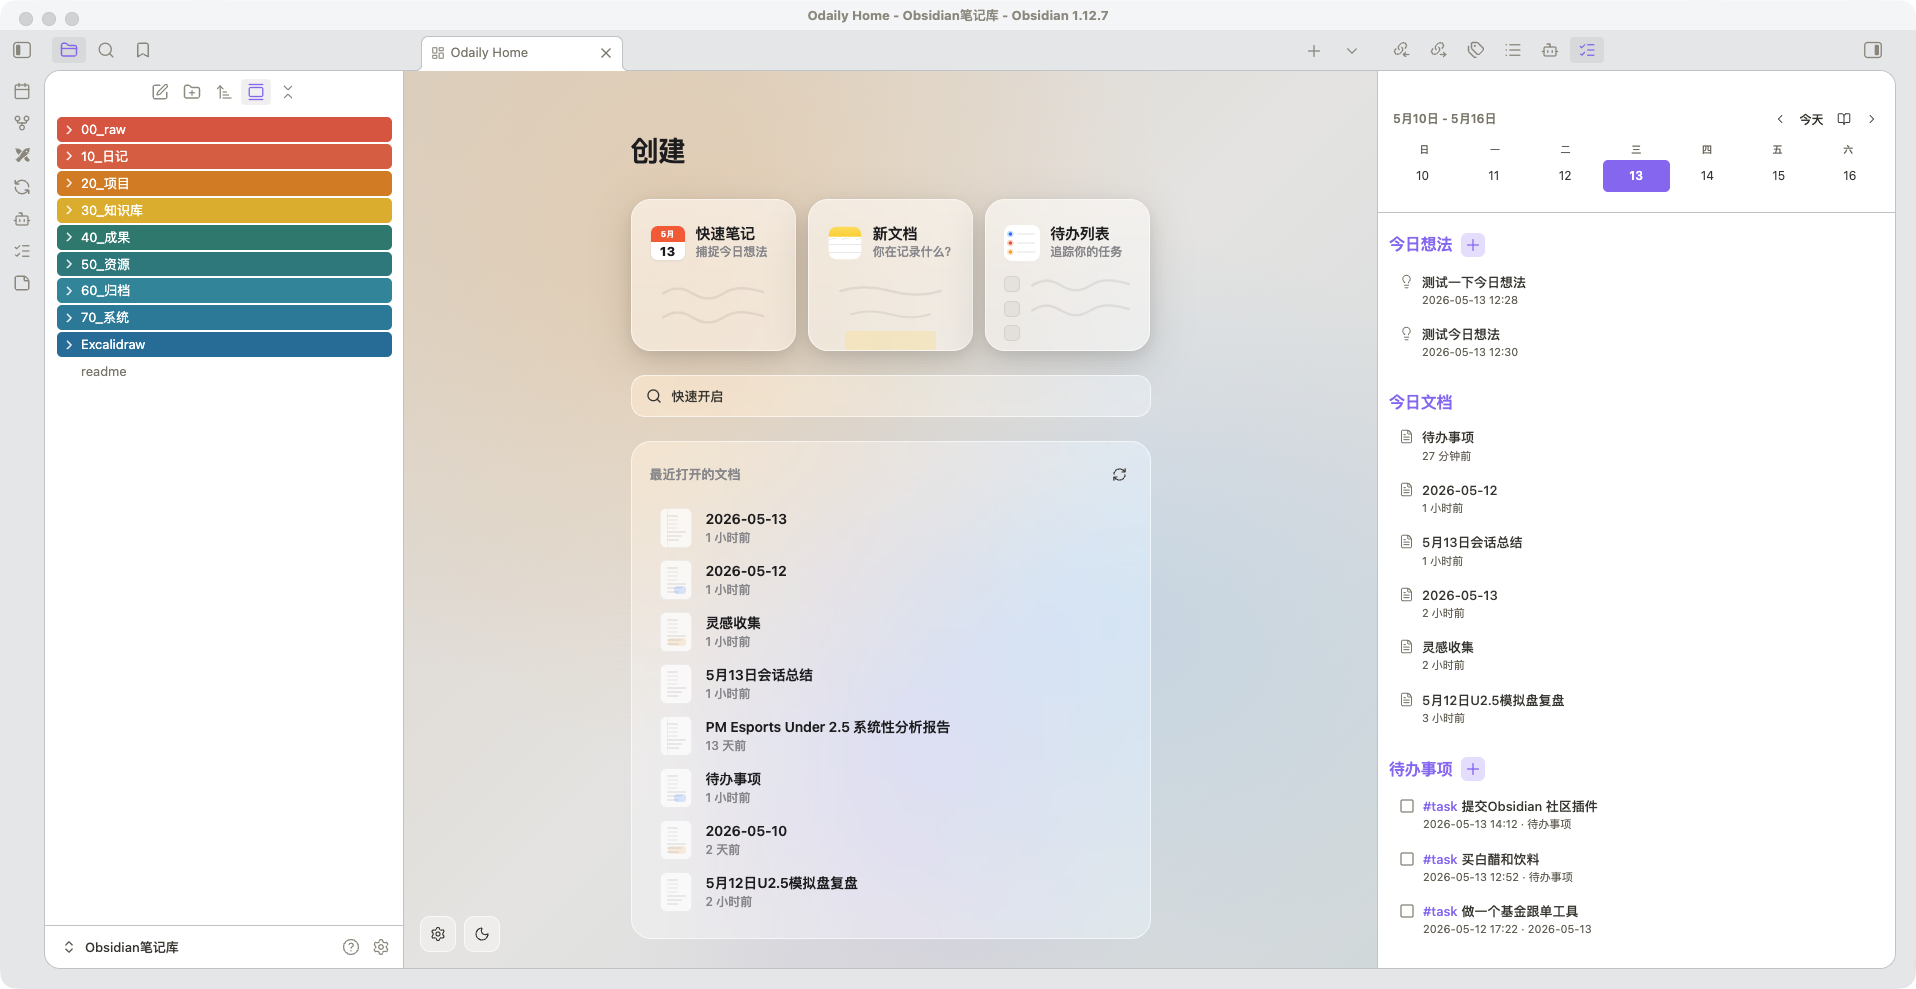
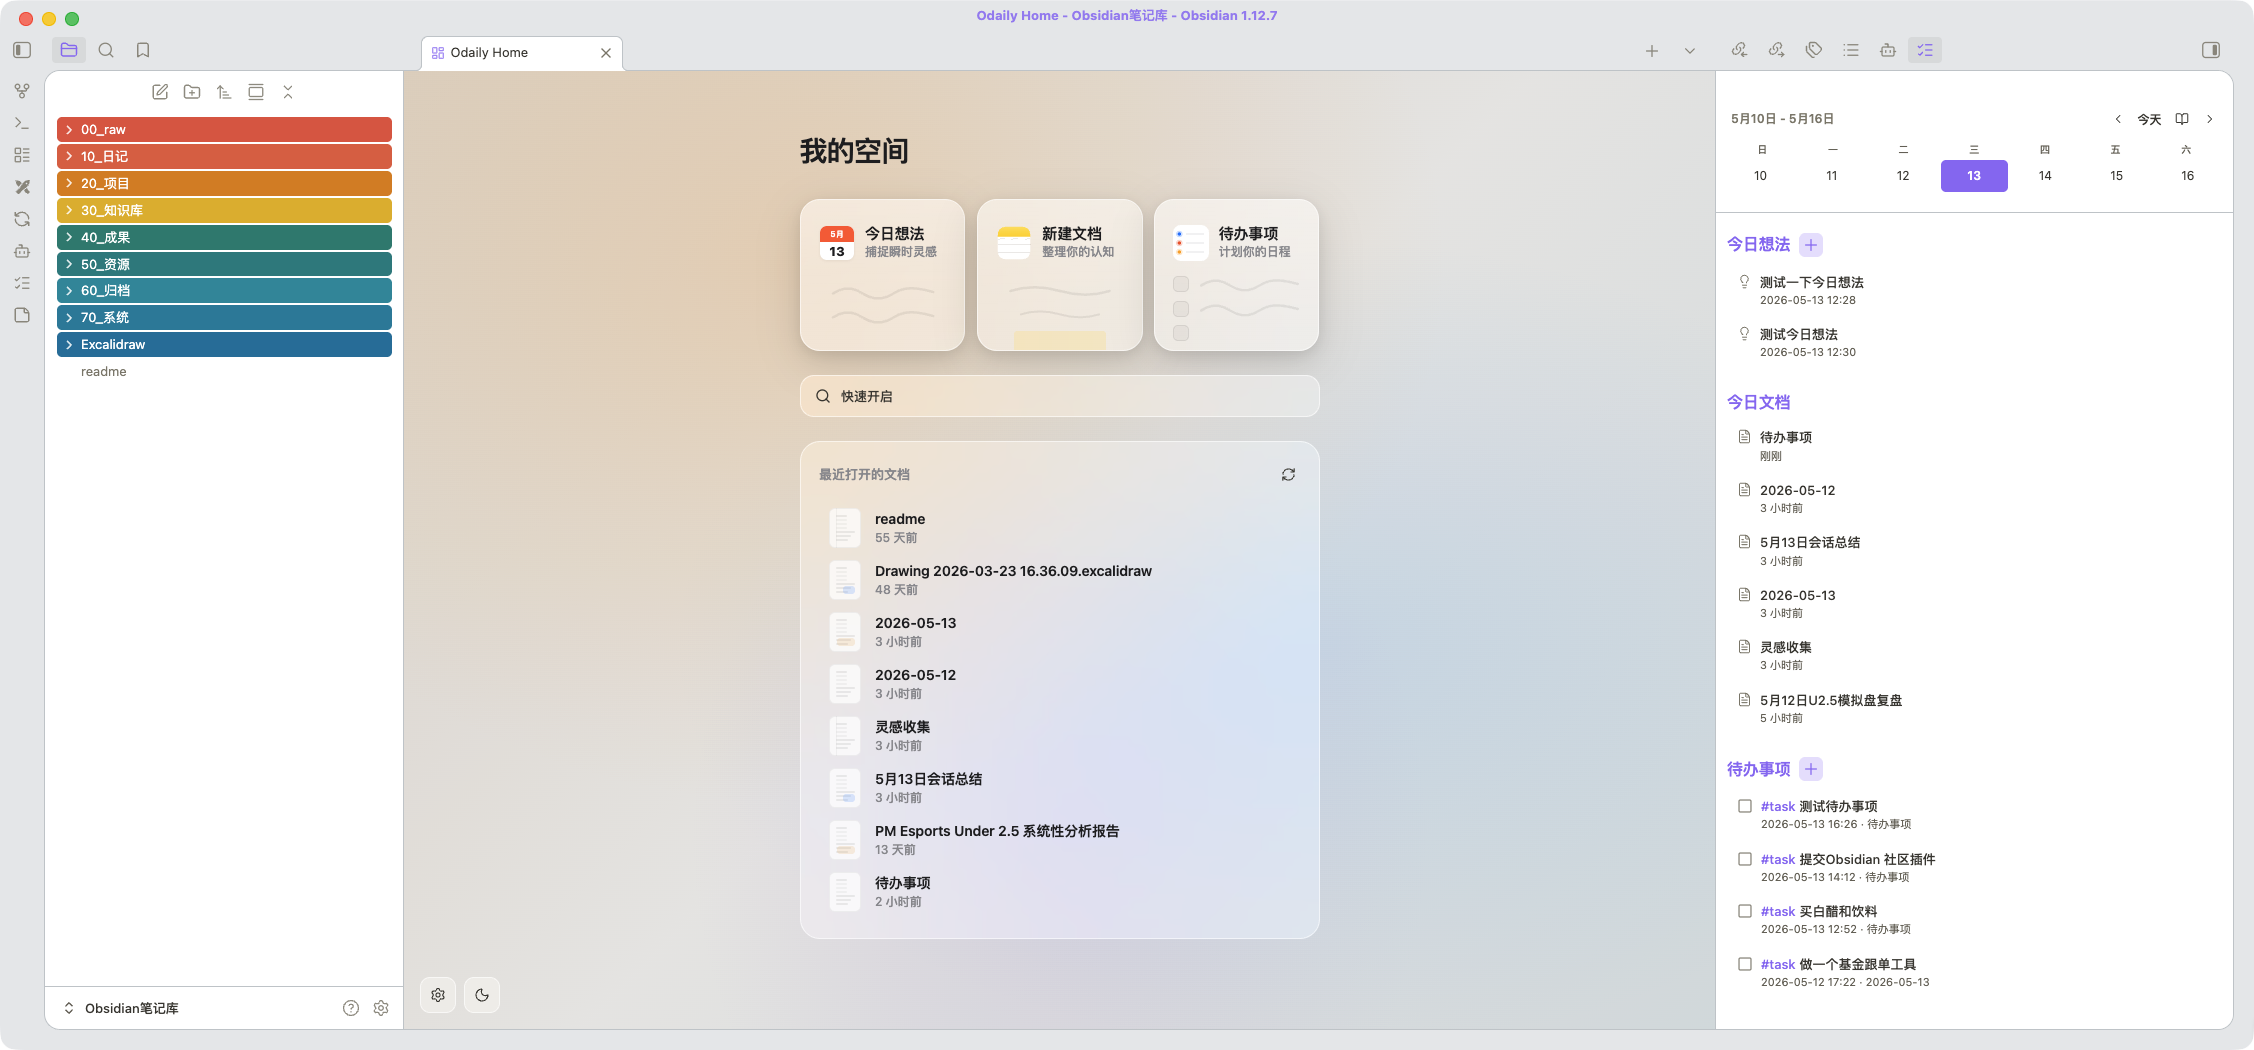
优化 README 描述，更新截图

diff --git a/main.ts b/main.ts
@@ -50,13 +50,13 @@ function initLocale(): void {
   S["cmd.openSidebar"] = z ? "打开 Odaily 侧边栏" : "Open Odaily sidebar";
   S["cmd.addMemo"] = z ? "Odaily: 新增想法" : "Odaily: add memo";
   S["cmd.addTodo"] = z ? "Odaily: 新增待办" : "Odaily: add todo";
-  S["home.create"] = z ? "创建" : "Create";
-  S["home.quickNote"] = z ? "快速笔记" : "Quick Note";
-  S["home.quickNoteSub"] = z ? "捕捉今日想法" : "Capture";
-  S["home.newDoc"] = z ? "新文档" : "New Doc";
-  S["home.newDocSub"] = z ? "你在记录什么？" : "Record";
-  S["home.todoList"] = z ? "待办列表" : "Todo List";
-  S["home.todoListSub"] = z ? "追踪你的任务" : "Track";
+  S["home.create"] = z ? "我的空间" : "My Space";
+  S["home.quickNote"] = z ? "今日想法" : "Daily Memo";
+  S["home.quickNoteSub"] = z ? "捕捉瞬时灵感" : "Capture";
+  S["home.newDoc"] = z ? "新建文档" : "New Doc";
+  S["home.newDocSub"] = z ? "整理你的认知" : "Organize";
+  S["home.todoList"] = z ? "待办事项" : "Todo List";
+  S["home.todoListSub"] = z ? "计划你的日程" : "Plan";
   S["home.quickOpen"] = z ? "快速开启" : "Quick Open";
   S["home.recentFiles"] = z ? "最近打开的文档" : "Recent Files";
   S["home.noRecent"] = z ? "还没有最近打开的文档" : "No recent files";

diff --git a/main.js b/main.js
@@ -19,7 +19,7 @@ if you want to view the source, please visit the github repository
   <circle cx="21" cy="90" r="9" fill="none" stroke="#ff9500"/>
   <circle cx="21" cy="90" r="6" fill="#ff9500"/>
   <path fill="#c7c7cc" fill-rule="evenodd" d="M44 29h60a.94477.94477 0 0 1 1 1h0a.94477.94477 0 0 1-1 1H44a.94477.94477 0 0 1-1-1h0A1.07539 1.07539 0 0 1 44 29ZM44 59h60a.94477.94477 0 0 1 1 1h0a.94477.94477 0 0 1-1 1H44a.94477.94477 0 0 1-1-1h0A1.07539 1.07539 0 0 1 44 59zM44 89h60a.94477.94477 0 0 1 1 1h0a.94477.94477 0 0 1-1 1H44a.94477.94477 0 0 1-1-1h0A1.07539 1.07539 0 0 1 44 89z"/>
-</svg>`;function E(){return(localStorage.getItem("language")||navigator.language||"en").startsWith("zh")}var r={};function it(){let i=E();r["cmd.openHome"]=i?"\u6253\u5F00 Odaily \u4E3B\u9875":"Open Odaily home",r["cmd.openSidebar"]=i?"\u6253\u5F00 Odaily \u4FA7\u8FB9\u680F":"Open Odaily sidebar",r["cmd.addMemo"]=i?"Odaily: \u65B0\u589E\u60F3\u6CD5":"Odaily: add memo",r["cmd.addTodo"]=i?"Odaily: \u65B0\u589E\u5F85\u529E":"Odaily: add todo",r["home.create"]=i?"\u521B\u5EFA":"Create",r["home.quickNote"]=i?"\u5FEB\u901F\u7B14\u8BB0":"Quick Note",r["home.quickNoteSub"]=i?"\u6355\u6349\u4ECA\u65E5\u60F3\u6CD5":"Capture",r["home.newDoc"]=i?"\u65B0\u6587\u6863":"New Doc",r["home.newDocSub"]=i?"\u4F60\u5728\u8BB0\u5F55\u4EC0\u4E48\uFF1F":"Record",r["home.todoList"]=i?"\u5F85\u529E\u5217\u8868":"Todo List",r["home.todoListSub"]=i?"\u8FFD\u8E2A\u4F60\u7684\u4EFB\u52A1":"Track",r["home.quickOpen"]=i?"\u5FEB\u901F\u5F00\u542F":"Quick Open",r["home.recentFiles"]=i?"\u6700\u8FD1\u6253\u5F00\u7684\u6587\u6863":"Recent Files",r["home.noRecent"]=i?"\u8FD8\u6CA1\u6709\u6700\u8FD1\u6253\u5F00\u7684\u6587\u6863":"No recent files",r["home.refresh"]=i?"\u5237\u65B0":"Refresh",r["home.settings"]=i?"\u8BBE\u7F6E":"Settings",r["home.switchLight"]=i?"\u5207\u6362\u6D45\u8272\u6A21\u5F0F":"Switch to light mode",r["home.switchDark"]=i?"\u5207\u6362\u6DF1\u8272\u6A21\u5F0F":"Switch to dark mode",r["sidebar.title"]=i?"Odaily \u6982\u89C8":"Odaily Overview",r["sidebar.today"]=i?"\u4ECA\u5929":"Today",r["sidebar.prevDay"]=i?"\u524D\u4E00\u5929":"Previous day",r["sidebar.nextDay"]=i?"\u540E\u4E00\u5929":"Next day",r["sidebar.openDiary"]=i?"\u6253\u5F00\u65E5\u8BB0":"Open daily note",r["sidebar.prevMonth"]=i?"\u4E0A\u4E2A\u6708":"Previous month",r["sidebar.nextMonth"]=i?"\u4E0B\u4E2A\u6708":"Next month",r["empty.noDiaryToday"]=i?"\u4ECA\u65E5\u6682\u65E0\u65E5\u8BB0":"No daily note today",r["empty.noDiary"]=i?"\u6682\u65E0\u65E5\u8BB0":"No daily note",r["empty.noMemos"]=i?"\u8FD8\u6CA1\u6709\u60F3\u6CD5":"No memos yet",r["empty.noDocs"]=i?"\u6682\u65E0":"None",r["empty.noTodos"]=i?"\u6CA1\u6709\u5F85\u529E\u4E8B\u9879":"No pending tasks",r["empty.noDone"]=i?"\u6CA1\u6709\u5DF2\u5B8C\u6210\u7684\u4E8B\u9879":"No completed tasks",r["action.addMemo"]=i?"\u521B\u5EFA\u65B0\u60F3\u6CD5":"Add memo",r["action.addTodo"]=i?"\u521B\u5EFA\u65B0\u4E8B\u9879":"Add task",r["modal.addTodoTitle"]=i?"\u65B0\u589E\u5F85\u529E":"Add Todo",r["modal.todoPlaceholder"]=i?"\u8F93\u5165\u5F85\u529E\u4E8B\u9879...":"Enter a task...",r["modal.memoPlaceholder"]=i?"\u8BB0\u5F55\u6B64\u523B\u7684\u60F3\u6CD5...":"Capture this thought...",r["modal.cancel"]=i?"\u53D6\u6D88":"Cancel",r["modal.save"]=i?"\u4FDD\u5B58":"Save",r["notice.noSwitcher"]=i?"\u5FEB\u901F\u5207\u6362\u5668\u4E0D\u53EF\u7528":"Quick switcher is not available.",r["settings.title"]=i?"Odaily Home \u8BBE\u7F6E":"Odaily Home Settings",r["settings.lightBg"]=i?"\u6D45\u8272\u6A21\u5F0F\u80CC\u666F":"Light Mode Background",r["settings.lightBgDesc"]=i?"\u652F\u6301\uFF1AVault \u56FE\u7247\u8DEF\u5F84\uFF08\u5982 Attachments/bg.jpg\uFF09\u3001\u5916\u90E8\u94FE\u63A5\u3001CSS \u989C\u8272\u3001\u6E10\u53D8\u3002\u7559\u7A7A\u4F7F\u7528\u9ED8\u8BA4\u3002":"Supports: vault image path (e.g. Attachments/bg.jpg), external URLs, CSS colors, gradients. Leave empty for default.",r["settings.lightPh"]=i?"\u5982: Attachments/light.jpg \u6216 #f0f0f0":"e.g.: Attachments/light.jpg or #f0f0f0",r["settings.darkBg"]=i?"\u6DF1\u8272\u6A21\u5F0F\u80CC\u666F":"Dark Mode Background",r["settings.darkBgDesc"]=i?"\u652F\u6301\uFF1AVault \u56FE\u7247\u8DEF\u5F84\uFF08\u5982 Attachments/bg.jpg\uFF09\u3001\u5916\u90E8\u94FE\u63A5\u3001CSS \u989C\u8272\u3001\u6E10\u53D8\u3002\u7559\u7A7A\u4F7F\u7528\u9ED8\u8BA4\u3002":"Supports: vault image path (e.g. Attachments/bg.jpg), external URLs, CSS colors, gradients. Leave empty for default.",r["settings.darkPh"]=i?"\u5982: Attachments/dark.jpg \u6216 #1a1a2e":"e.g.: Attachments/dark.jpg or #1a1a2e",r["settings.taskTags"]=i?"\u672A\u5B8C\u6210\u4EFB\u52A1\u7B5B\u9009\u6807\u7B7E":"Task Filter Tags",r["settings.taskTagsDesc"]=i?"\u53EA\u663E\u793A\u5305\u542B\u6307\u5B9A\u6807\u7B7E\u7684\u4EFB\u52A1\uFF0C\u591A\u4E2A\u6807\u7B7E\u7528\u9017\u53F7\u5206\u9694\u3002\u5982: todo, \u5F85\u529E\u3002\u7559\u7A7A\u663E\u793A\u6240\u6709\u672A\u5B8C\u6210\u4EFB\u52A1\u3002":"Only show tasks with specified tags, separated by commas. e.g.: todo, task. Leave empty to show all.",r["settings.taskTagsPh"]=i?"\u5982: todo, \u5F85\u529E":"e.g.: todo, task",r["settings.todoFile"]=i?"\u5F85\u529E\u6DFB\u52A0\u76EE\u6807\u6587\u4EF6":"Todo Target File",r["settings.todoFileDesc"]=i?"\u65B0\u5F85\u529E\u5199\u5165\u7684\u6587\u4EF6\u8DEF\u5F84\u3002\u7559\u7A7A\u5219\u5199\u5165\u5F53\u5929\u65E5\u8BB0\u3002\u5982: 00_inbox/\u5F85\u529E\u6E05\u5355\u3002":"File path for new todos. Leave empty to use daily notes. e.g.: 00_inbox/todos.",r["settings.todoFilePh"]=i?"\u7559\u7A7A = \u5F53\u5929\u65E5\u8BB0":"Leave empty = daily note",r["settings.todoPos"]=i?"\u5F85\u529E\u8FFD\u52A0\u4F4D\u7F6E":"Todo Append Position",r["settings.todoPosDesc"]=i?"\u65B0\u5F85\u529E\u8FFD\u52A0\u5230\u6587\u4EF6\u6700\u524D\u9762\u8FD8\u662F\u6700\u540E\u9762\u3002":"Append new todos to the top or bottom of the file.",r["settings.posBottom"]=i?"\u6587\u4EF6\u672B\u5C3E":"Bottom of file",r["settings.posTop"]=i?"\u6587\u4EF6\u5F00\u5934":"Top of file",r["settings.helpTitle"]=i?"\u4F7F\u7528\u8BF4\u660E":"Instructions",r["settings.help1a"]=i?"1. \u5C06\u56FE\u7247\u653E\u5165 Vault \u4E2D\uFF08\u5982 ":"1. Place an image in your vault (e.g. ",r["settings.help1b"]=i?"\uFF09\uFF0C\u5728\u4E0A\u65B9\u8F93\u5165\u8BE5\u8DEF\u5F84\u5373\u53EF":") and enter the path above",r["settings.help2a"]=i?"2. \u4E5F\u53EF\u8F93\u5165\u7F51\u7EDC\u56FE\u7247\u94FE\u63A5\uFF0C\u5982 ":"2. Or enter an image URL, e.g. ",r["settings.help3a"]=i?"3. \u652F\u6301 CSS \u539F\u751F\u5199\u6CD5\uFF1A\u989C\u8272 ":"3. Supports native CSS: color ",r["settings.help3b"]=i?"\u3001\u6E10\u53D8 ":", gradient ",r["settings.help4"]=i?"4. \u6D45\u8272\u548C\u6DF1\u8272\u6A21\u5F0F\u53EF\u5206\u522B\u8BBE\u7F6E\u4E0D\u540C\u7684\u80CC\u666F":"4. Light and dark modes can have different backgrounds",r["rel.justNow"]=i?"\u521A\u521A":"just now",r["rel.minutesAgo"]=i?" \u5206\u949F\u524D":" min ago",r["rel.hoursAgo"]=i?" \u5C0F\u65F6\u524D":" hours ago",r["rel.daysAgo"]=i?" \u5929\u524D":" days ago"}function o(i){var g;return(g=r[i])!=null?g:i}function N(i){return E()?`${i.getMonth()+1}\u6708${i.getDate()}\u65E5`:i.toLocaleDateString("en-US",{month:"short",day:"numeric"})}function st(i){return E()?`${i.getMonth()+1}\u6708`:i.toLocaleDateString("en-US",{month:"short"})}function nt(i){return E()?`${i.getFullYear()}\u5E74${i.getMonth()+1}\u6708`:i.toLocaleDateString("en-US",{year:"numeric",month:"long"})}function ot(){return E()?["\u65E5","\u4E00","\u4E8C","\u4E09","\u56DB","\u4E94","\u516D"]:["Sun","Mon","Tue","Wed","Thu","Fri","Sat"]}function F(i,g,e){let t=E(),a=N(g),s={memo:t?{today:"\u4ECA\u65E5\u60F3\u6CD5",date:`${a}\u60F3\u6CD5`}:{today:"Today's Memos",date:`${a} Memos`},doc:t?{today:"\u4ECA\u65E5\u6587\u6863",date:`${a}\u6587\u6863`}:{today:"Today's Docs",date:`${a} Docs`},todo:t?{today:"\u5F85\u529E\u4E8B\u9879",date:`${a}\u4E8B\u9879`}:{today:"Todos",date:`${a} Todos`},done:t?{today:"\u4ECA\u65E5\u5B8C\u6210",date:`${a}\u5B8C\u6210`}:{today:"Done Today",date:`Completed ${a}`}};return e?s[i].today:s[i].date}var rt=()=>E()?"\u4ECA\u65E5\u5B8C\u6210":"Done Today",V={lightBackground:"",darkBackground:"",taskTags:"",todoFile:"",todoPosition:"bottom"},O=class extends p.Plugin{constructor(){super(...arguments);k(this,"settings",V);k(this,"replacingLeaves",new WeakSet)}async onload(){await this.loadSettings(),it(),this.registerView(L,e=>new R(e,this)),this.registerView(P,e=>new C(e,this)),this.addCommand({id:"open-odaily-home",name:o("cmd.openHome"),callback:()=>this.openHomeInNewTab()}),this.addCommand({id:"open-odaily-sidebar",name:o("cmd.openSidebar"),callback:()=>this.openSidebar()}),this.addCommand({id:"odaily-add-memo",name:o("cmd.addMemo"),callback:()=>{this.addMemo()}}),this.addCommand({id:"odaily-add-todo",name:o("cmd.addTodo"),callback:()=>{new $(this.app,e=>{e.trim()&&this.addTodo(e)}).open()}}),this.addRibbonIcon("layout-dashboard","Open Odaily home",()=>{this.openHomeInNewTab()}),this.addRibbonIcon("list-checks","Open Odaily sidebar",()=>{this.openSidebar()}),this.registerEvent(this.app.workspace.on("active-leaf-change",e=>{this.replaceEmptyLeaf(e)})),this.app.workspace.onLayoutReady(()=>{this.replaceEmptyLeaf(this.app.workspace.activeLeaf)}),this.addSettingTab(new I(this.app,this))}async loadSettings(){this.settings=Object.assign({},V,await this.loadData())}async saveSettings(){await this.saveData(this.settings)}async openHomeInNewTab(){let e=this.app.workspace.getLeavesOfType(L)[0];if(e){this.app.workspace.revealLeaf(e);return}await this.app.workspace.getLeaf("tab").setViewState({type:L,active:!0})}async openSidebar(){let e=this.app.workspace.getLeavesOfType(P)[0];if(e){this.app.workspace.revealLeaf(e);return}let t=this.app.workspace.getRightLeaf(!1);t&&await t.setViewState({type:P,active:!0})}openFileSmart(e){let t=this.app.workspace.getLeavesOfType("markdown").find(a=>{var s;return((s=a.view.file)==null?void 0:s.path)===e.path});t?this.app.workspace.revealLeaf(t):this.app.workspace.getLeaf("tab").openFile(e)}async openDailyNote(e){let{fileName:t,folder:a}=this.getDailyNotePath(e),s=this.app.vault.getAbstractFileByPath(t);if(s instanceof p.TFile){this.openFileSmart(s);return}a&&await this.app.vault.createFolder(a).catch(()=>{});let n=await this.getTemplateContent(),h=await this.app.vault.create(t,n);this.openFileSmart(h),await this.applyTemplater(h)}async createNote(){let{fileName:e,folder:t}=this.getDailyNotePath(),a=this.app.vault.getAbstractFileByPath(e);if(a instanceof p.TFile){this.openFileSmart(a);return}t&&await this.app.vault.createFolder(t).catch(()=>{});let s=await this.getTemplateContent(),n=await this.app.vault.create(e,s);this.openFileSmart(n),await this.applyTemplater(n)}async getTemplateContent(){var s,n,h;let e=(s=this.app.internalPlugins)==null?void 0:s.getPluginById("daily-notes"),t=e!=null&&e.enabled?(h=(n=e.instance)==null?void 0:n.options)==null?void 0:h.template:void 0;if(t){let l=t.replace(/\.md$/,"")+".md",y=this.app.vault.getAbstractFileByPath(l);if(y instanceof p.TFile)return await this.app.vault.read(y)}return`# ${ht(new Date)}
+</svg>`;function E(){return(localStorage.getItem("language")||navigator.language||"en").startsWith("zh")}var r={};function it(){let i=E();r["cmd.openHome"]=i?"\u6253\u5F00 Odaily \u4E3B\u9875":"Open Odaily home",r["cmd.openSidebar"]=i?"\u6253\u5F00 Odaily \u4FA7\u8FB9\u680F":"Open Odaily sidebar",r["cmd.addMemo"]=i?"Odaily: \u65B0\u589E\u60F3\u6CD5":"Odaily: add memo",r["cmd.addTodo"]=i?"Odaily: \u65B0\u589E\u5F85\u529E":"Odaily: add todo",r["home.create"]=i?"\u6211\u7684\u7A7A\u95F4":"My Space",r["home.quickNote"]=i?"\u4ECA\u65E5\u60F3\u6CD5":"Daily Memo",r["home.quickNoteSub"]=i?"\u6355\u6349\u77AC\u65F6\u7075\u611F":"Capture",r["home.newDoc"]=i?"\u65B0\u5EFA\u6587\u6863":"New Doc",r["home.newDocSub"]=i?"\u6574\u7406\u4F60\u7684\u8BA4\u77E5":"Organize",r["home.todoList"]=i?"\u5F85\u529E\u4E8B\u9879":"Todo List",r["home.todoListSub"]=i?"\u8BA1\u5212\u4F60\u7684\u65E5\u7A0B":"Plan",r["home.quickOpen"]=i?"\u5FEB\u901F\u5F00\u542F":"Quick Open",r["home.recentFiles"]=i?"\u6700\u8FD1\u6253\u5F00\u7684\u6587\u6863":"Recent Files",r["home.noRecent"]=i?"\u8FD8\u6CA1\u6709\u6700\u8FD1\u6253\u5F00\u7684\u6587\u6863":"No recent files",r["home.refresh"]=i?"\u5237\u65B0":"Refresh",r["home.settings"]=i?"\u8BBE\u7F6E":"Settings",r["home.switchLight"]=i?"\u5207\u6362\u6D45\u8272\u6A21\u5F0F":"Switch to light mode",r["home.switchDark"]=i?"\u5207\u6362\u6DF1\u8272\u6A21\u5F0F":"Switch to dark mode",r["sidebar.title"]=i?"Odaily \u6982\u89C8":"Odaily Overview",r["sidebar.today"]=i?"\u4ECA\u5929":"Today",r["sidebar.prevDay"]=i?"\u524D\u4E00\u5929":"Previous day",r["sidebar.nextDay"]=i?"\u540E\u4E00\u5929":"Next day",r["sidebar.openDiary"]=i?"\u6253\u5F00\u65E5\u8BB0":"Open daily note",r["sidebar.prevMonth"]=i?"\u4E0A\u4E2A\u6708":"Previous month",r["sidebar.nextMonth"]=i?"\u4E0B\u4E2A\u6708":"Next month",r["empty.noDiaryToday"]=i?"\u4ECA\u65E5\u6682\u65E0\u65E5\u8BB0":"No daily note today",r["empty.noDiary"]=i?"\u6682\u65E0\u65E5\u8BB0":"No daily note",r["empty.noMemos"]=i?"\u8FD8\u6CA1\u6709\u60F3\u6CD5":"No memos yet",r["empty.noDocs"]=i?"\u6682\u65E0":"None",r["empty.noTodos"]=i?"\u6CA1\u6709\u5F85\u529E\u4E8B\u9879":"No pending tasks",r["empty.noDone"]=i?"\u6CA1\u6709\u5DF2\u5B8C\u6210\u7684\u4E8B\u9879":"No completed tasks",r["action.addMemo"]=i?"\u521B\u5EFA\u65B0\u60F3\u6CD5":"Add memo",r["action.addTodo"]=i?"\u521B\u5EFA\u65B0\u4E8B\u9879":"Add task",r["modal.addTodoTitle"]=i?"\u65B0\u589E\u5F85\u529E":"Add Todo",r["modal.todoPlaceholder"]=i?"\u8F93\u5165\u5F85\u529E\u4E8B\u9879...":"Enter a task...",r["modal.memoPlaceholder"]=i?"\u8BB0\u5F55\u6B64\u523B\u7684\u60F3\u6CD5...":"Capture this thought...",r["modal.cancel"]=i?"\u53D6\u6D88":"Cancel",r["modal.save"]=i?"\u4FDD\u5B58":"Save",r["notice.noSwitcher"]=i?"\u5FEB\u901F\u5207\u6362\u5668\u4E0D\u53EF\u7528":"Quick switcher is not available.",r["settings.title"]=i?"Odaily Home \u8BBE\u7F6E":"Odaily Home Settings",r["settings.lightBg"]=i?"\u6D45\u8272\u6A21\u5F0F\u80CC\u666F":"Light Mode Background",r["settings.lightBgDesc"]=i?"\u652F\u6301\uFF1AVault \u56FE\u7247\u8DEF\u5F84\uFF08\u5982 Attachments/bg.jpg\uFF09\u3001\u5916\u90E8\u94FE\u63A5\u3001CSS \u989C\u8272\u3001\u6E10\u53D8\u3002\u7559\u7A7A\u4F7F\u7528\u9ED8\u8BA4\u3002":"Supports: vault image path (e.g. Attachments/bg.jpg), external URLs, CSS colors, gradients. Leave empty for default.",r["settings.lightPh"]=i?"\u5982: Attachments/light.jpg \u6216 #f0f0f0":"e.g.: Attachments/light.jpg or #f0f0f0",r["settings.darkBg"]=i?"\u6DF1\u8272\u6A21\u5F0F\u80CC\u666F":"Dark Mode Background",r["settings.darkBgDesc"]=i?"\u652F\u6301\uFF1AVault \u56FE\u7247\u8DEF\u5F84\uFF08\u5982 Attachments/bg.jpg\uFF09\u3001\u5916\u90E8\u94FE\u63A5\u3001CSS \u989C\u8272\u3001\u6E10\u53D8\u3002\u7559\u7A7A\u4F7F\u7528\u9ED8\u8BA4\u3002":"Supports: vault image path (e.g. Attachments/bg.jpg), external URLs, CSS colors, gradients. Leave empty for default.",r["settings.darkPh"]=i?"\u5982: Attachments/dark.jpg \u6216 #1a1a2e":"e.g.: Attachments/dark.jpg or #1a1a2e",r["settings.taskTags"]=i?"\u672A\u5B8C\u6210\u4EFB\u52A1\u7B5B\u9009\u6807\u7B7E":"Task Filter Tags",r["settings.taskTagsDesc"]=i?"\u53EA\u663E\u793A\u5305\u542B\u6307\u5B9A\u6807\u7B7E\u7684\u4EFB\u52A1\uFF0C\u591A\u4E2A\u6807\u7B7E\u7528\u9017\u53F7\u5206\u9694\u3002\u5982: todo, \u5F85\u529E\u3002\u7559\u7A7A\u663E\u793A\u6240\u6709\u672A\u5B8C\u6210\u4EFB\u52A1\u3002":"Only show tasks with specified tags, separated by commas. e.g.: todo, task. Leave empty to show all.",r["settings.taskTagsPh"]=i?"\u5982: todo, \u5F85\u529E":"e.g.: todo, task",r["settings.todoFile"]=i?"\u5F85\u529E\u6DFB\u52A0\u76EE\u6807\u6587\u4EF6":"Todo Target File",r["settings.todoFileDesc"]=i?"\u65B0\u5F85\u529E\u5199\u5165\u7684\u6587\u4EF6\u8DEF\u5F84\u3002\u7559\u7A7A\u5219\u5199\u5165\u5F53\u5929\u65E5\u8BB0\u3002\u5982: 00_inbox/\u5F85\u529E\u6E05\u5355\u3002":"File path for new todos. Leave empty to use daily notes. e.g.: 00_inbox/todos.",r["settings.todoFilePh"]=i?"\u7559\u7A7A = \u5F53\u5929\u65E5\u8BB0":"Leave empty = daily note",r["settings.todoPos"]=i?"\u5F85\u529E\u8FFD\u52A0\u4F4D\u7F6E":"Todo Append Position",r["settings.todoPosDesc"]=i?"\u65B0\u5F85\u529E\u8FFD\u52A0\u5230\u6587\u4EF6\u6700\u524D\u9762\u8FD8\u662F\u6700\u540E\u9762\u3002":"Append new todos to the top or bottom of the file.",r["settings.posBottom"]=i?"\u6587\u4EF6\u672B\u5C3E":"Bottom of file",r["settings.posTop"]=i?"\u6587\u4EF6\u5F00\u5934":"Top of file",r["settings.helpTitle"]=i?"\u4F7F\u7528\u8BF4\u660E":"Instructions",r["settings.help1a"]=i?"1. \u5C06\u56FE\u7247\u653E\u5165 Vault \u4E2D\uFF08\u5982 ":"1. Place an image in your vault (e.g. ",r["settings.help1b"]=i?"\uFF09\uFF0C\u5728\u4E0A\u65B9\u8F93\u5165\u8BE5\u8DEF\u5F84\u5373\u53EF":") and enter the path above",r["settings.help2a"]=i?"2. \u4E5F\u53EF\u8F93\u5165\u7F51\u7EDC\u56FE\u7247\u94FE\u63A5\uFF0C\u5982 ":"2. Or enter an image URL, e.g. ",r["settings.help3a"]=i?"3. \u652F\u6301 CSS \u539F\u751F\u5199\u6CD5\uFF1A\u989C\u8272 ":"3. Supports native CSS: color ",r["settings.help3b"]=i?"\u3001\u6E10\u53D8 ":", gradient ",r["settings.help4"]=i?"4. \u6D45\u8272\u548C\u6DF1\u8272\u6A21\u5F0F\u53EF\u5206\u522B\u8BBE\u7F6E\u4E0D\u540C\u7684\u80CC\u666F":"4. Light and dark modes can have different backgrounds",r["rel.justNow"]=i?"\u521A\u521A":"just now",r["rel.minutesAgo"]=i?" \u5206\u949F\u524D":" min ago",r["rel.hoursAgo"]=i?" \u5C0F\u65F6\u524D":" hours ago",r["rel.daysAgo"]=i?" \u5929\u524D":" days ago"}function o(i){var g;return(g=r[i])!=null?g:i}function N(i){return E()?`${i.getMonth()+1}\u6708${i.getDate()}\u65E5`:i.toLocaleDateString("en-US",{month:"short",day:"numeric"})}function st(i){return E()?`${i.getMonth()+1}\u6708`:i.toLocaleDateString("en-US",{month:"short"})}function nt(i){return E()?`${i.getFullYear()}\u5E74${i.getMonth()+1}\u6708`:i.toLocaleDateString("en-US",{year:"numeric",month:"long"})}function ot(){return E()?["\u65E5","\u4E00","\u4E8C","\u4E09","\u56DB","\u4E94","\u516D"]:["Sun","Mon","Tue","Wed","Thu","Fri","Sat"]}function F(i,g,e){let t=E(),a=N(g),s={memo:t?{today:"\u4ECA\u65E5\u60F3\u6CD5",date:`${a}\u60F3\u6CD5`}:{today:"Today's Memos",date:`${a} Memos`},doc:t?{today:"\u4ECA\u65E5\u6587\u6863",date:`${a}\u6587\u6863`}:{today:"Today's Docs",date:`${a} Docs`},todo:t?{today:"\u5F85\u529E\u4E8B\u9879",date:`${a}\u4E8B\u9879`}:{today:"Todos",date:`${a} Todos`},done:t?{today:"\u4ECA\u65E5\u5B8C\u6210",date:`${a}\u5B8C\u6210`}:{today:"Done Today",date:`Completed ${a}`}};return e?s[i].today:s[i].date}var rt=()=>E()?"\u4ECA\u65E5\u5B8C\u6210":"Done Today",V={lightBackground:"",darkBackground:"",taskTags:"",todoFile:"",todoPosition:"bottom"},O=class extends p.Plugin{constructor(){super(...arguments);k(this,"settings",V);k(this,"replacingLeaves",new WeakSet)}async onload(){await this.loadSettings(),it(),this.registerView(L,e=>new R(e,this)),this.registerView(P,e=>new C(e,this)),this.addCommand({id:"open-odaily-home",name:o("cmd.openHome"),callback:()=>this.openHomeInNewTab()}),this.addCommand({id:"open-odaily-sidebar",name:o("cmd.openSidebar"),callback:()=>this.openSidebar()}),this.addCommand({id:"odaily-add-memo",name:o("cmd.addMemo"),callback:()=>{this.addMemo()}}),this.addCommand({id:"odaily-add-todo",name:o("cmd.addTodo"),callback:()=>{new $(this.app,e=>{e.trim()&&this.addTodo(e)}).open()}}),this.addRibbonIcon("layout-dashboard","Open Odaily home",()=>{this.openHomeInNewTab()}),this.addRibbonIcon("list-checks","Open Odaily sidebar",()=>{this.openSidebar()}),this.registerEvent(this.app.workspace.on("active-leaf-change",e=>{this.replaceEmptyLeaf(e)})),this.app.workspace.onLayoutReady(()=>{this.replaceEmptyLeaf(this.app.workspace.activeLeaf)}),this.addSettingTab(new I(this.app,this))}async loadSettings(){this.settings=Object.assign({},V,await this.loadData())}async saveSettings(){await this.saveData(this.settings)}async openHomeInNewTab(){let e=this.app.workspace.getLeavesOfType(L)[0];if(e){this.app.workspace.revealLeaf(e);return}await this.app.workspace.getLeaf("tab").setViewState({type:L,active:!0})}async openSidebar(){let e=this.app.workspace.getLeavesOfType(P)[0];if(e){this.app.workspace.revealLeaf(e);return}let t=this.app.workspace.getRightLeaf(!1);t&&await t.setViewState({type:P,active:!0})}openFileSmart(e){let t=this.app.workspace.getLeavesOfType("markdown").find(a=>{var s;return((s=a.view.file)==null?void 0:s.path)===e.path});t?this.app.workspace.revealLeaf(t):this.app.workspace.getLeaf("tab").openFile(e)}async openDailyNote(e){let{fileName:t,folder:a}=this.getDailyNotePath(e),s=this.app.vault.getAbstractFileByPath(t);if(s instanceof p.TFile){this.openFileSmart(s);return}a&&await this.app.vault.createFolder(a).catch(()=>{});let n=await this.getTemplateContent(),h=await this.app.vault.create(t,n);this.openFileSmart(h),await this.applyTemplater(h)}async createNote(){let{fileName:e,folder:t}=this.getDailyNotePath(),a=this.app.vault.getAbstractFileByPath(e);if(a instanceof p.TFile){this.openFileSmart(a);return}t&&await this.app.vault.createFolder(t).catch(()=>{});let s=await this.getTemplateContent(),n=await this.app.vault.create(e,s);this.openFileSmart(n),await this.applyTemplater(n)}async getTemplateContent(){var s,n,h;let e=(s=this.app.internalPlugins)==null?void 0:s.getPluginById("daily-notes"),t=e!=null&&e.enabled?(h=(n=e.instance)==null?void 0:n.options)==null?void 0:h.template:void 0;if(t){let l=t.replace(/\.md$/,"")+".md",y=this.app.vault.getAbstractFileByPath(l);if(y instanceof p.TFile)return await this.app.vault.read(y)}return`# ${ht(new Date)}
 
 `}async applyTemplater(e){var s;let t=(s=this.app.plugins)==null?void 0:s.plugins;if(!t)return;let a=t["templater-obsidian"];if(a!=null&&a.api)try{let n=a.api;if(n.parse_template){let h=await this.app.vault.read(e),l=await n.parse_template({},h);typeof l=="string"&&l!==h&&await this.app.vault.modify(e,l)}}catch(n){}}async createRawDocument(){let e=this.getNewNoteFolder();e&&await this.app.vault.createFolder(e).catch(()=>{});let t=`${e}/untitled`,a=`${t}.md`,s=1;for(;this.app.vault.getAbstractFileByPath(a);)a=`${t} ${s}.md`,s+=1;let n=await this.app.vault.create(a,"");this.openFileSmart(n)}getNewNoteFolder(){var a,s,n,h;let e=this.app.vault,t=(a=e.getConfig("newFileLocation"))!=null?a:"root";if(t==="folder")return(s=e.getConfig("newFileFolderPath"))!=null?s:"";if(t==="current"){let l=this.app.workspace.getActiveFile();return(h=(n=l==null?void 0:l.parent)==null?void 0:n.path)!=null?h:""}return""}getDailyNotePath(e){var s,n;let t=e!=null?e:new Date,a=(s=this.app.internalPlugins)==null?void 0:s.getPluginById("daily-notes");if(a!=null&&a.enabled&&((n=a.instance)!=null&&n.options)){let{format:h="YYYY-MM-DD",folder:l=""}=a.instance.options,y=window.moment(t).format(h);return{fileName:l?`${l}/${y}.md`:`${y}.md`,folder:l}}return{fileName:`Odaily/${pt(t)}.md`,folder:"Odaily"}}executeCommandById(e){let t=this.app.commands,a=t==null?void 0:t.findCommand(e);return t&&a?(t.executeCommandById(e),!0):!1}findAndExecuteQuickAddCommand(e){var n;let t=(n=this.app.commands)==null?void 0:n.commands;if(!t)return!1;let a=e.toLowerCase(),s=Object.values(t).find(h=>h.id.startsWith("quickadd:")&&h.name.toLowerCase().includes(a));return s?this.executeCommandById(s.id):!1}openQuickSwitcher(){this.executeCommandById("switcher:open")||new p.Notice(o("notice.noSwitcher"))}async replaceEmptyLeaf(e){if(!(!e||this.replacingLeaves.has(e))&&e.view.getViewType()===tt){this.replacingLeaves.add(e);try{await e.setViewState({type:L,active:!0})}finally{this.replacingLeaves.delete(e)}}}async addMemo(e){let{fileName:t,folder:a}=this.getDailyNotePath(e),s=this.app.vault.getAbstractFileByPath(t),n;if(s instanceof p.TFile)n=s;else{a&&await this.app.vault.createFolder(a).catch(()=>{});let c=await this.getTemplateContent();n=await this.app.vault.create(t,c),await this.applyTemplater(n)}let h=e!=null?e:new Date,l=h.toDateString()===new Date().toDateString(),y=F("memo",h,l);new H(this.app,y,async c=>{if(!c.trim())return;let m=new Date,u=`${m.getFullYear()}-${String(m.getMonth()+1).padStart(2,"0")}-${String(m.getDate()).padStart(2,"0")} ${String(m.getHours()).padStart(2,"0")}:${String(m.getMinutes()).padStart(2,"0")}`,v=`
 #memo ${c.trim()}  \u2795 ${u}`;await this.app.vault.append(n,v);let f=this.app.workspace.getLeavesOfType(P)[0];(f==null?void 0:f.view)instanceof C&&f.view.renderSidebar()}).open()}async addTodo(e,t){let a=this.settings.todoFile.trim(),s;if(a){let c=a.replace(/\.md$/,"")+".md",m=this.app.vault.getAbstractFileByPath(c);if(m instanceof p.TFile)s=m;else{let u=c.split("/");u.length>1&&await this.app.vault.createFolder(u.slice(0,-1).join("/")).catch(()=>{}),s=await this.app.vault.create(c,"")}}else{let{fileName:c,folder:m}=this.getDailyNotePath(t),u=this.app.vault.getAbstractFileByPath(c);if(u instanceof p.TFile)s=u;else{m&&await this.app.vault.createFolder(m).catch(()=>{});let v=await this.getTemplateContent();s=await this.app.vault.create(c,v),await this.applyTemplater(s)}}let n=new Date,h=`${n.getFullYear()}-${String(n.getMonth()+1).padStart(2,"0")}-${String(n.getDate()).padStart(2,"0")} ${String(n.getHours()).padStart(2,"0")}:${String(n.getMinutes()).padStart(2,"0")}`,l=`- [ ] #task ${e.trim()} \u2795 ${h}

diff --git a/README.zh-CN.md b/README.zh-CN.md
@@ -1,8 +1,12 @@
-# Odaily Home
+# Odaily
 
 [English](README.md)
 
-一款极简风格的 Obsidian 每日面板插件。替换空白新标签页为美观的操作中心，并提供侧边栏进行日历导航、每日想法和任务管理。
+一款以日程为视角的 Obsidian 插件，快速捕捉想法、管理笔记与待办任务，提升个人生产力。
+
+## 截图
+
+![主页视图](screenshots/home_view.png)
 
 ## 功能
 
@@ -23,7 +27,7 @@
 - **今日完成** — 查看当天已完成的事项及完成时间
 - **标签筛选** — 按自定义标签过滤任务（如 `#todo`、`#待办`）
 
-## 命令
+## 快捷命令
 - `Open Odaily home` — 在新标签页打开主页
 - `Open Odaily sidebar` — 在右侧边栏打开概览面板
 - `Odaily: add memo` — 快速捕捉想法到当天日记
@@ -34,10 +38,6 @@
 - **任务标签筛选**：只显示包含指定标签的任务
 - **待办目标文件**：选择新待办的保存位置（留空则使用当天日记）
 - **待办追加位置**：新待办追加到文件开头还是末尾
-
-## 截图
-
-![主页视图](screenshots/home_view.png)
 
 ## 安装
 

diff --git a/README.md b/README.md
@@ -1,8 +1,12 @@
-# Odaily Home
+# Odaily
 
 [中文](README.zh-CN.md)
 
-A daily dashboard for Obsidian. Replace empty new tabs with a beautiful action center, plus a sidebar for calendar navigation, daily memos, and task management.
+A schedule-focused Obsidian plugin for capturing ideas, managing notes and tasks, and boosting personal productivity.
+
+## Screenshots
+
+![Home View](screenshots/home_view.png)
 
 ## Features
 
@@ -34,10 +38,6 @@ A daily dashboard for Obsidian. Replace empty new tabs with a beautiful action c
 - **Task Tags**: Filter the sidebar task list to show only tasks matching specific tags.
 - **Todo File**: Choose where new tasks are saved (leave empty to use daily notes).
 - **Todo Position**: Append new tasks to the top or bottom of the target file.
-
-## Screenshots
-
-![Home View](screenshots/home_view.png)
 
 ## Installation
 